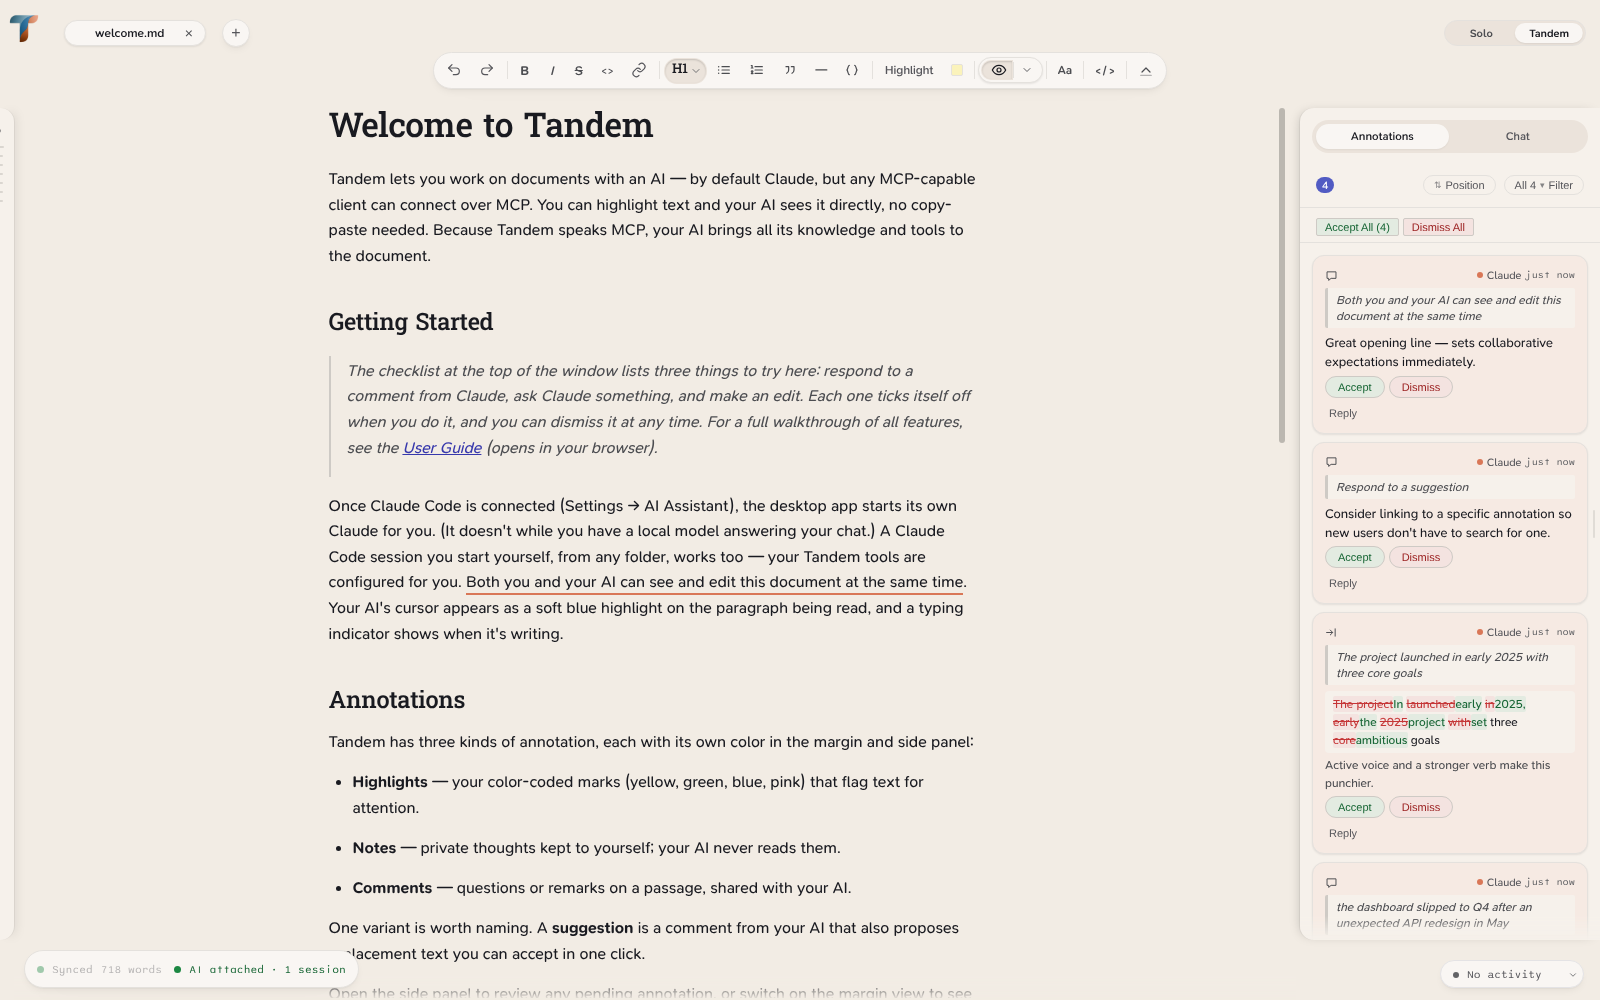
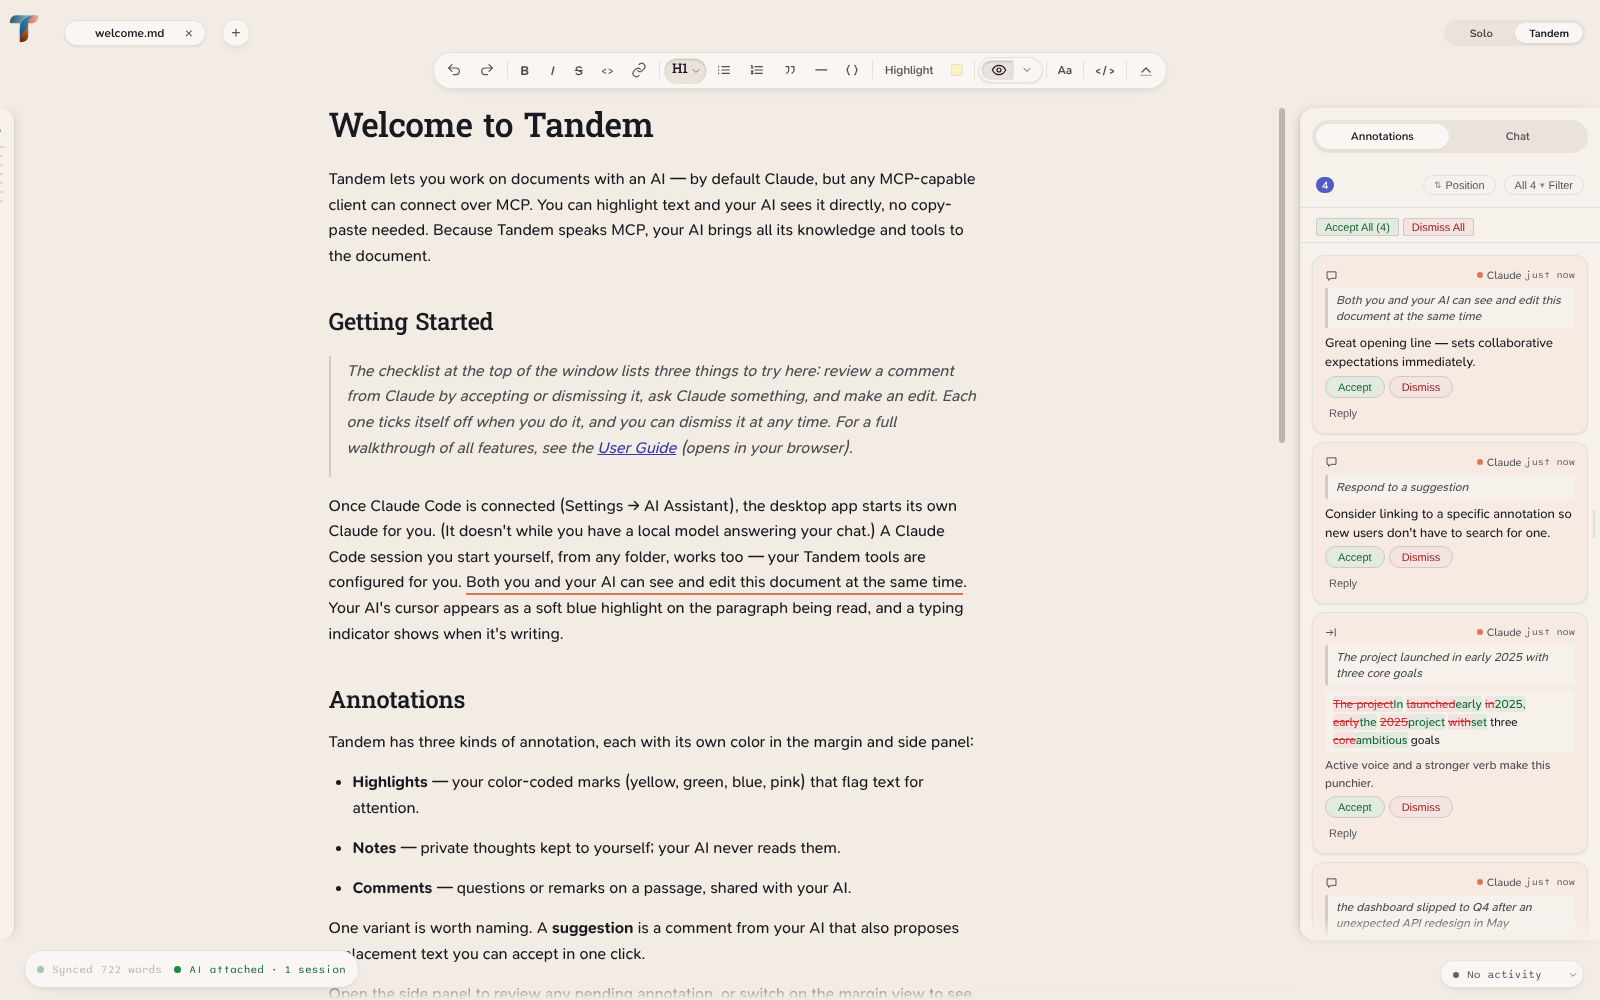
docs: fix three /code-review findings; recapture the shots showing welcome.md
- welcome.md (and its fixture): the first checklist item ticks only on
  accept or dismiss, never on a reply, so the line now says "review a
  comment from Claude by accepting or dismissing it". The seed phrase
  "accept or dismiss" still appears exactly once.
- cli.md: the exit-1 row adds `setup --apply --with-channel-shim` with no
  built shim, `activate` with no/unreadable/unverifiable key, and a
  failed local write or removal on `activate` / `deactivate`.
- positioning.md: local-model records keep `author: "claude"`; the model
  is recorded separately, and Word imports ship dark.
- Screenshots 01, 11, 15, 16 and 24 recaptured, since they show the
  welcome paragraph; the rest are unchanged.

Claude-Session: https://claude.ai/code/session_01YYGHxvJkiAn3rMRqZSkNiv

Changed region(s): [[0.2188, 0.372, 0.625, 0.465]]

diff --git a/docs/cli.md b/docs/cli.md
@@ -165,7 +165,7 @@ Prints usage and exits.
 | Code | Meaning |
 |---|---|
 | `0` | Success. |
-| `1` | Fatal error. Stack trace logged to stderr. Also: an unknown subcommand; `tandem doctor` when any check failed; `tandem setup --apply` when every target's write failed, when no `--target` value was recognised, or when both `--with-channel-shim` and `--without-channel-shim` were given; and `tandem activate` / `tandem deactivate` when the running Tandem refused. |
+| `1` | Fatal error. Stack trace logged to stderr. Also: an unknown subcommand; `tandem doctor` when any check failed; `tandem setup --apply` when every target's write failed, when no `--target` value was recognised, when both `--with-channel-shim` and `--without-channel-shim` were given, or when `--with-channel-shim` is given and `dist/channel/index.js` is missing; `tandem activate` when no key was given or the key could not be read or verified; and `tandem activate` / `tandem deactivate` when the running Tandem refused or the local write or removal failed. |
 | `2` | `tandem doctor` only — the diagnostic itself crashed, so no verdict was reached. Distinct from `1` on purpose: `1` means "checks ran and something is wrong", `2` means "nothing was established". |
 
 **`tandem rotate-token` on a refusal.** If the running server rejects the rotation — most often a 403, because `/api` is loopback-only for non-GET methods — the CLI restores the *previous* token to disk, leaves every MCP config untouched, and exits `0`: nothing changed, so nothing needs recovering. It exits `1` only in the narrower case where that rollback itself failed; the token file then holds a value the server will not accept, and the stderr message prints the old token's fingerprint so you can put it back by hand.

diff --git a/sample/welcome.md b/sample/welcome.md
@@ -4,7 +4,7 @@ Tandem lets you work on documents with an AI — by default Claude, but any MCP-
 
 ## Getting Started
 
-> The checklist at the top of the window lists three things to try here: respond to a comment from Claude, ask Claude something, and make an edit. Each one ticks itself off when you do it, and you can dismiss it at any time. For a full walkthrough of all features, see the [User Guide](https://github.com/bloknayrb/tandem/blob/master/docs/user-guide.md) (opens in your browser).
+> The checklist at the top of the window lists three things to try here: review a comment from Claude by accepting or dismissing it, ask Claude something, and make an edit. Each one ticks itself off when you do it, and you can dismiss it at any time. For a full walkthrough of all features, see the [User Guide](https://github.com/bloknayrb/tandem/blob/master/docs/user-guide.md) (opens in your browser).
 
 Once Claude Code is connected (Settings → AI Assistant), the desktop app starts its own Claude for you. (It doesn't while you have a local model answering your chat.) A Claude Code session you start yourself, from any folder, works too — your Tandem tools are configured for you. Both you and your AI can see and edit this document at the same time. Your AI's cursor appears as a soft blue highlight on the paragraph being read, and a typing indicator shows when it's writing.
 

diff --git a/tests/fixtures/welcome-snapshot.md b/tests/fixtures/welcome-snapshot.md
@@ -4,7 +4,7 @@ Tandem lets you work on documents with an AI — by default Claude, but any MCP-
 
 ## Getting Started
 
-> The checklist at the top of the window lists three things to try here: respond to a comment from Claude, ask Claude something, and make an edit. Each one ticks itself off when you do it, and you can dismiss it at any time. For a full walkthrough of all features, see the [User Guide](https://github.com/bloknayrb/tandem/blob/master/docs/user-guide.md) (opens in your browser).
+> The checklist at the top of the window lists three things to try here: review a comment from Claude by accepting or dismissing it, ask Claude something, and make an edit. Each one ticks itself off when you do it, and you can dismiss it at any time. For a full walkthrough of all features, see the [User Guide](https://github.com/bloknayrb/tandem/blob/master/docs/user-guide.md) (opens in your browser).
 
 Once Claude Code is connected (Settings → AI Assistant), the desktop app starts its own Claude for you. (It doesn't while you have a local model answering your chat.) A Claude Code session you start yourself, from any folder, works too — your Tandem tools are configured for you. Both you and your AI can see and edit this document at the same time. Your AI's cursor appears as a soft blue highlight on the paragraph being read, and a typing indicator shows when it's writing.
 

diff --git a/docs/positioning.md b/docs/positioning.md
@@ -28,7 +28,7 @@ Tandem's core differentiator is that AI suggestions are **first-class data objec
 
 - **Addressable** — stored in a Y.Map with a unique ID
 - **Typed** — highlight, comment, or note; comments carry an optional replacement suggestion. Notes are user-private and are never surfaced to the AI (ADR-027).
-- **Attributable** — author field tracks who created it (the user, Claude, an imported Word comment, or — from v0.32.0 — a local model, shown by the name you gave it)
+- **Attributable** — the author field tracks who created it (the user or Claude; Word-comment imports, which ship dark, carry their own), and from v0.32.0 a local model's comments also record which model wrote them, shown by the name you gave it
 - **Resolvable** — user accepts or dismisses each one individually
 - **Queryable** — user can ask the AI about a specific annotation by replying to it
 - **Persistent** — survives server restarts via session persistence
